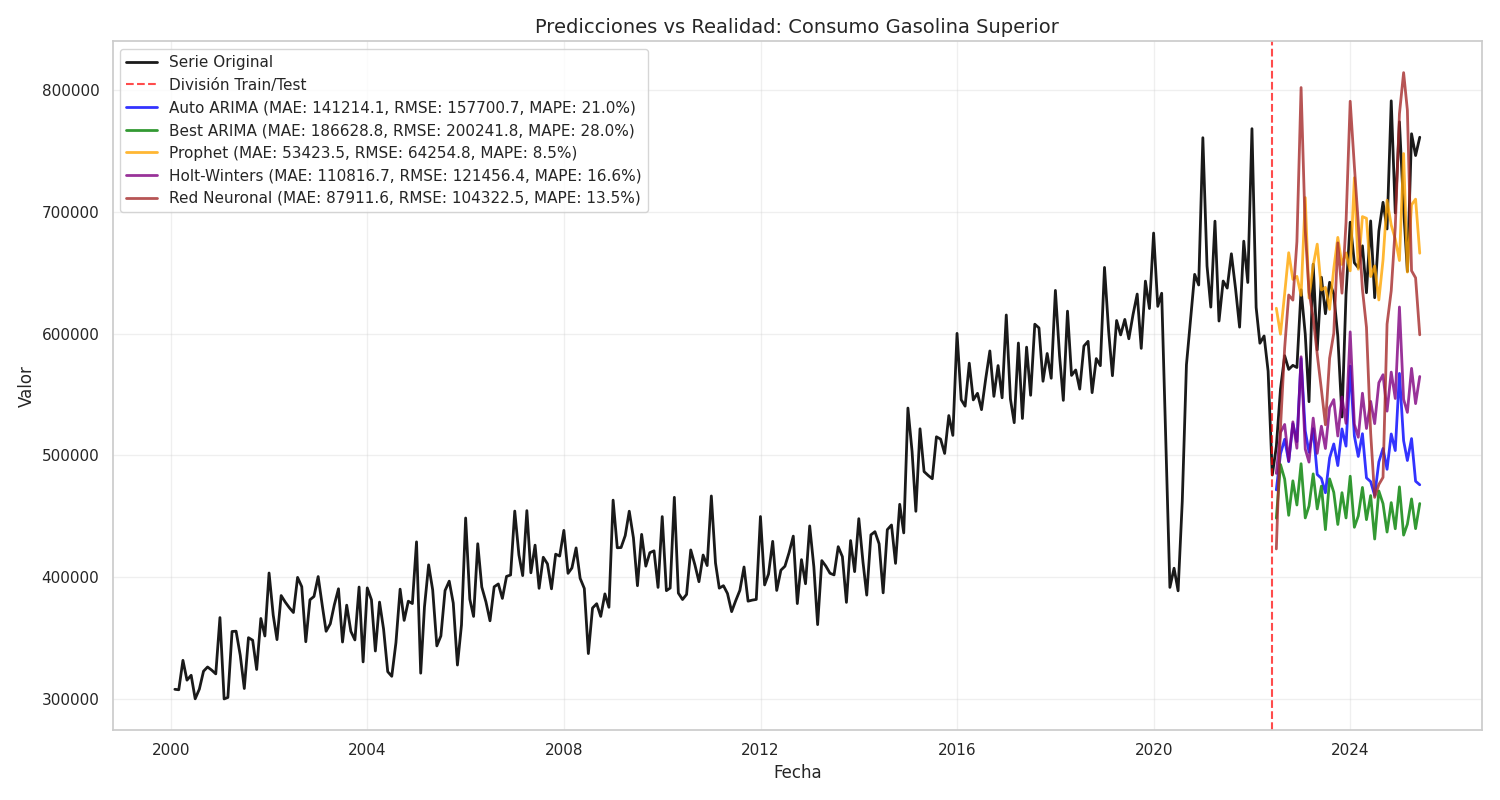
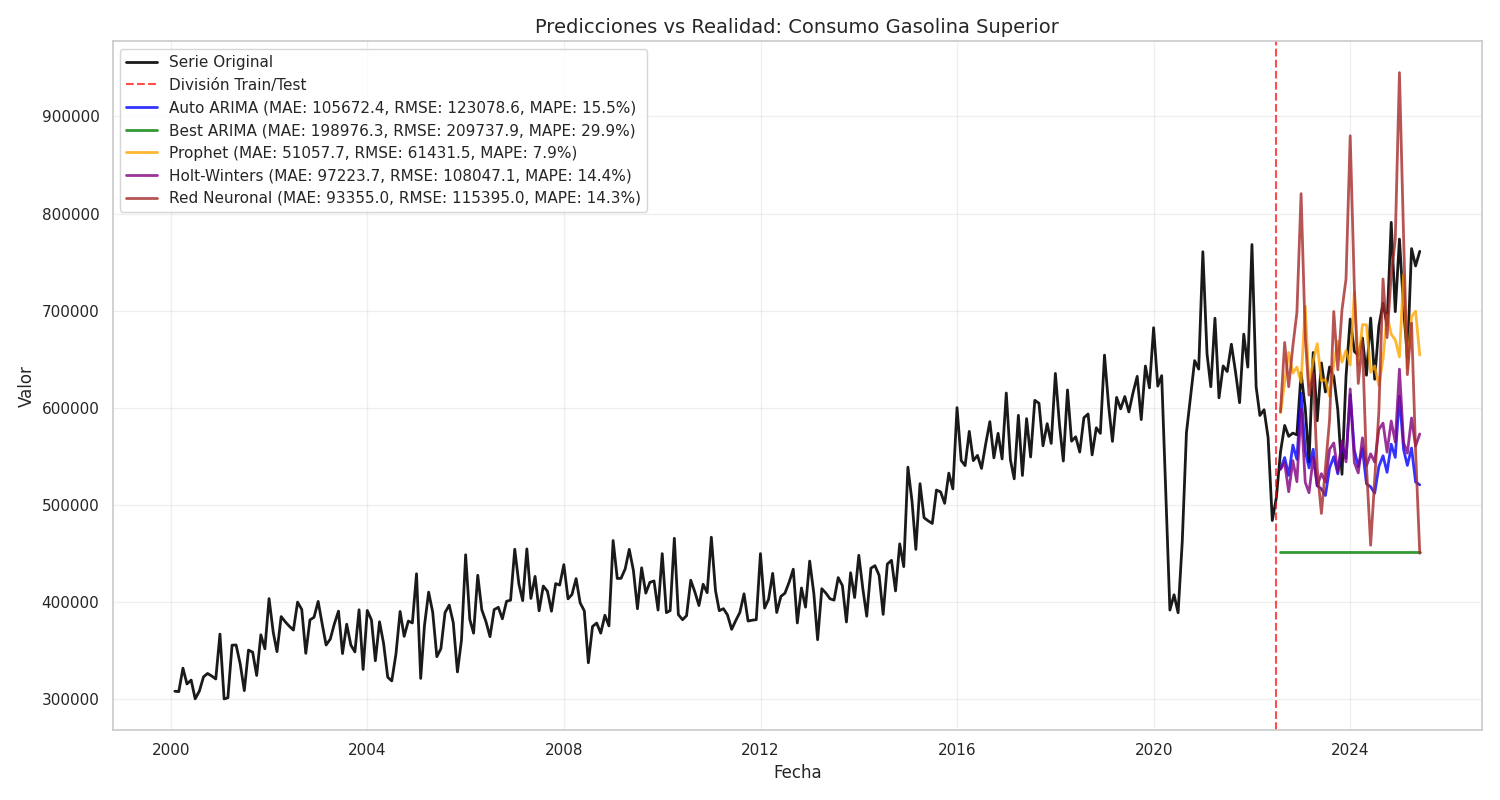
Predict final

diff --git a/lab1.py b/lab1.py
@@ -550,19 +550,35 @@ from sklearn.neural_network import MLPRegressor
 from sklearn.preprocessing import StandardScaler
 
 
-def crear_conjuntos_entrenamiento_prueba(serie, test_years=3):
+def crear_conjuntos_entrenamiento_prueba(serie, test_years=3, min_train_obs=24):
     """
-    Divide la serie en conjunto de entrenamiento y prueba
+    Divide la serie en train/test:
+      - test_years: años aproximados para test
+      - min_train_obs: mínimo de meses para train
     """
-    # Calcular fecha de corte (últimos 3 años para prueba)
-    fecha_fin = serie.index.max()
-    fecha_corte = fecha_fin - pd.DateOffset(years=test_years)
+    # asegúrate de que la serie tenga freq mensual
+    if serie.index.freq is None:
+        serie = serie.asfreq('MS')
+    
+    # número de meses de test deseados
+    meses_test = test_years * 12
 
-    # Dividir los datos
+    # si la serie es demasiado corta ajusta meses_test
+    total = len(serie)
+    if total - meses_test < min_train_obs:
+        # deja al menos 'min_train_obs' para train,
+        # o, si la serie es muy corta, asigna 20% a test
+        meses_test = max(total - min_train_obs,
+                         int(total * 0.2))
+        meses_test = max(meses_test, 0)
+
+    fecha_corte = serie.index[-meses_test] if meses_test > 0 else serie.index[0]
+
     train = serie[serie.index <= fecha_corte]
     test = serie[serie.index > fecha_corte]
 
     return train, test, fecha_corte
+
 
 def evaluar_modelo(y_true, y_pred, nombre_modelo):
     """
@@ -938,6 +954,34 @@ for nombre_serie, serie in series_analizar.items():
     print(f"\n{'='*60}")
     print(f"PREDICCIONES 2025: {nombre_serie}")
     print(f"{'='*60}")
+
+    if nombre_serie == 'Precios Gasolina Regular':
+        print("🔹 Saltando predicción últimos 3 años (serie <36 meses)")
+        train = serie  # 7 puntos
+        n_pasados = len(train)
+        n_restantes = 12 - n_pasados
+        fechas_prueba = pd.date_range(
+            start=train.index.max() + pd.DateOffset(months=1),
+            periods=n_restantes,
+            freq='MS'
+        )
+        try:
+            modelo = auto_arima(
+                train,
+                seasonal=False,   
+                suppress_warnings=True,
+                stepwise=True
+            )
+        except Exception as e:
+            print("   ⚠ auto_arima incluso sin estacionalidad falló:", e)
+            continue
+    
+        pred = modelo.predict(n_periods=n_restantes)
+        print("Predicción resto de 2025:")
+        for f, v in zip(fechas_prueba, pred):
+            print(f"  {f.strftime('%Y-%m')}: {v:.2f}")
+        continue
+
 
     # Usar toda la serie para entrenar
     try:
